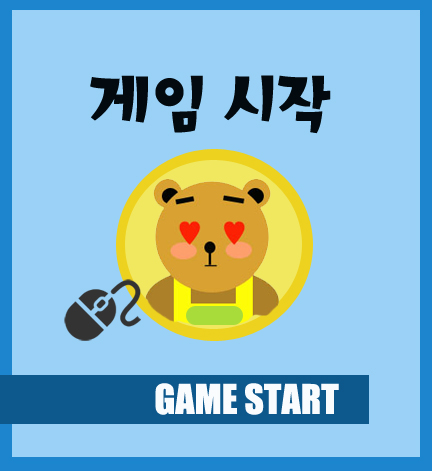
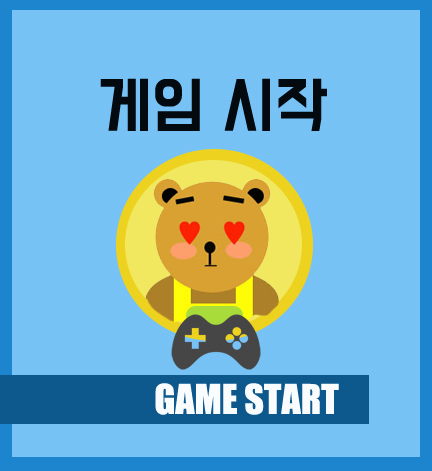
이미지 수정 및 고객문의요청 삭제 추가 CHJ 20151128

diff --git a/5bject/src/kr/or/object/dao/MemberDaoImpl.java b/5bject/src/kr/or/object/dao/MemberDaoImpl.java
@@ -62,19 +62,22 @@ public class MemberDaoImpl implements MemberDao{
 	public int removeMemberById(String id) {
 		return session.delete("memberMapper.removeMemberById", id);
 	}
+	//고객문의요청 리시트에서 문의한거 삭제하기.
+	@Override
+	public int removeRequestByDate(String date) {
+		return session.delete("memberMapper.removeRequestByDate",date);
+	}
 	//아이디 전체값 조회.
 	@Override
 	public List<Members> getMembers() {
 		return session.selectList("memberMapper.selectMembers");
 	}
 	
-
 	@Override
 	public List findMemberId(HashMap map) {
 		return session.selectList("memberMapper.selectMemberId",map);
 	}
 	
-
 	@Override
 	public String findMemberPassword(HashMap map) {
 		// TODO Auto-generated method stub

diff --git a/5bject/src/kr/or/object/controller/MemberController.java b/5bject/src/kr/or/object/controller/MemberController.java
@@ -188,8 +188,16 @@ public class MemberController {
 		service.removeMemberById(id);
 		gameService.removeGameScore(id);
 		return "/member/memberList.do";
-
 	}
+	
+	//관리자가 고객문의요청을 삭제하는 컨트롤러
+	@RequestMapping("/request_remove.do")
+	@Transactional(rollbackFor={Exception.class})
+	public String remove(@RequestParam String date){
+		service.removeRequestByDate(date);		
+		return "/member/request_list.do";
+	}
+	
 	//관리자가 고객정보를 업데이트
 	@RequestMapping("/update_member.do")
 	public String memberUpdate(HttpSession session, @ModelAttribute Members member, Errors errors) {

diff --git a/5bject/src/kr/or/object/service/MemberServiceImpl.java b/5bject/src/kr/or/object/service/MemberServiceImpl.java
@@ -54,16 +54,24 @@ public class MemberServiceImpl implements MemberService {
 	public void removeMemberById(String id) {
 		dao.removeMemberById(id);
 	}
+	
+	//고객문의요청 리스트 삭제하기 위한 컨트롤러
+	@Override
+	public void removeRequestByDate(String date) {
+		dao.removeRequestByDate(date);
+	}
+	
 	//고객들의 정보 조회시 필요한 컨트롤러
 	public List<Members> getMembers() {
 		return dao.getMembers();
 	}
-
+	
 	//고객 아이디 찾기
 	@Override
 	public List findMemberId(HashMap map) {
 		return dao.findMemberId(map);
 	}
+
 
 	//잃어버린 비밀번호 찾기
 	@Override

diff --git a/5bject/src/kr/or/object/dao/MemberDao.java b/5bject/src/kr/or/object/dao/MemberDao.java
@@ -25,6 +25,9 @@ public interface MemberDao {
 	//아이디 값을 받아서 제거.
 	int removeMemberById(String id);
 	
+	//고객문의목록 데이트값 받아서 제거 20151128
+	int removeRequestByDate(String date);
+	
 	//전체 멤버 조회시 필요
 	List<Members> getMembers();
 	

diff --git a/5bject/src/kr/or/object/service/MemberService.java b/5bject/src/kr/or/object/service/MemberService.java
@@ -24,6 +24,9 @@ public interface MemberService {
 	//고객을 제거시 필요
 	void removeMemberById(String id);
 	
+	//고객문의목록 삭제시 필요 
+	void removeRequestByDate(String date);
+	
 	//고객 정보 조회시 필요
 	List<Members> getMembers();
 
